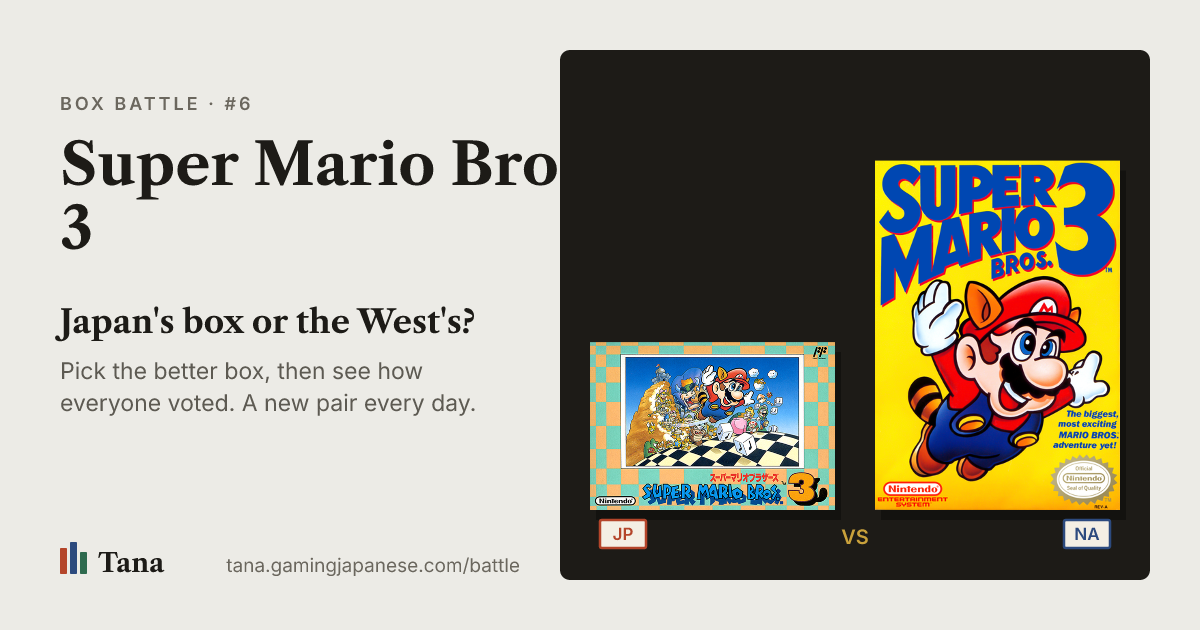
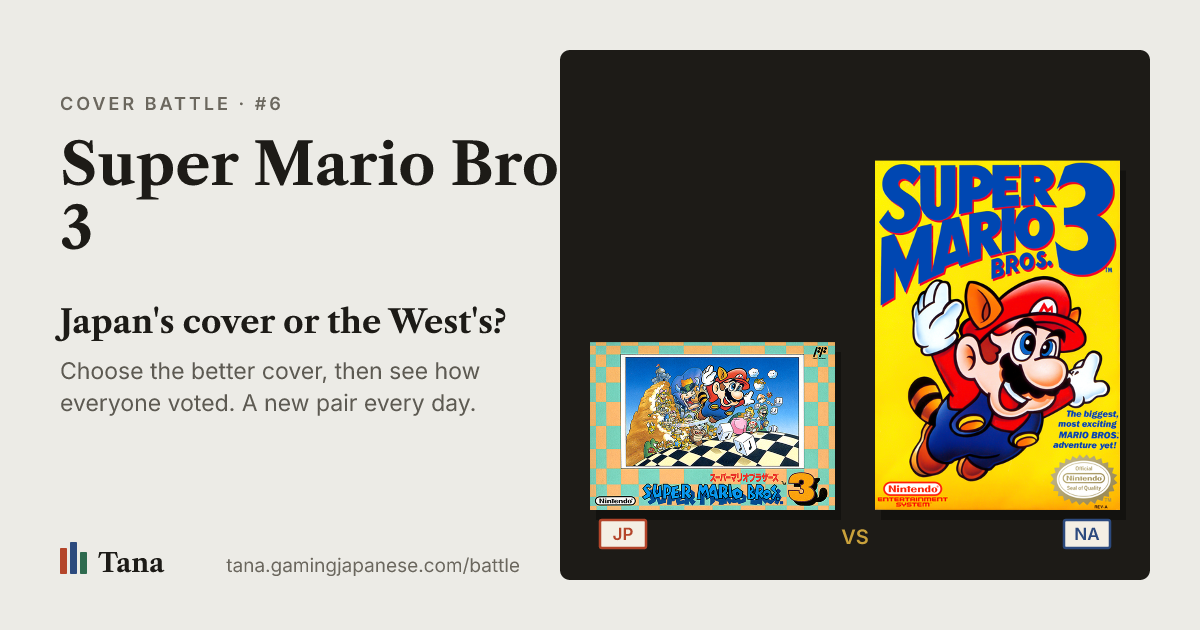
Rebuild game pages (2026-10-18)

Changed region(s): [[0.1542, 0.4825, 0.4317, 0.5429], [0.0308, 0.573, 0.4008, 0.6032], [0.0308, 0.1508, 0.2467, 0.181]]

diff --git a/help/glossary/index.html b/help/glossary/index.html
@@ -31,7 +31,7 @@
 <article class="help">
 <p class="crumb"><a href="https://tana.gamingjapanese.com/help/">Help</a>, Appendices</p>
 <h1>Glossary</h1>
-<ul><li>Game: the title itself, across all regions and platforms</li><li>Release: a game&#39;s version in one region on one platform</li><li>Edition: a specific product within a release (standard, reprint, limited, cover variant, etc.). This is what you add to your collection.</li><li>Copy: one physical copy you own of an edition</li><li>Main shelf: everything in your collection</li><li>Box: one of nine numbered lists of any games from the catalogue, owned or not, under Wants &amp; lists</li><li>Today&#39;s Box (今日の一箱): the daily game of guessing a game from its box, shown as a mosaic that sharpens with each guess</li><li>Plate: a brass plate under your shelf for stamping every Today&#39;s Box in a month</li><li>Census: the running count of every public My 9: most picked games, keystones, platforms and eras</li><li>Keystone: the game in the middle cubby of a My 9</li><li>My 9 (私を構成する9本): a 3 by 3 grid of the nine games that define you, kept in one of your boxes</li><li>Box art: the cover shown for a release, from scans, Wikipedia or members&#39; photos, always with the release&#39;s region patch</li><li>Region patch: the small JP, NA or EU label on a box, showing the region of the release</li><li>Smaller shelf: one of up to five shelves of games you pick from your collection, with its own name, order and style</li><li>Serial / product code: the code on the spine, disc or cartridge, i.e. SLPS-00700</li><li>JAN: the Japanese barcode number on the box</li><li>Obi: the paper spine card that comes with many Japanese games</li><li>CIB: complete in box</li><li>Loose: the cartridge or disc on its own</li><li>Reprint line: a budget re-release series, i.e. PlayStation the Best or Greatest Hits</li><li>Cover variant: a printing with different box art under the same serial</li><li>Country edition: a European version for one country, with its own serial</li><li>Japan only: never released in North America or Europe</li><li>Western only: never released in Japan</li><li>Physical in the West only: Japan only got a download, the West got a physical release</li><li>Verified: a copy with an approved photo of that copy</li><li>Wanted poster: a gap in the catalogue (no box art, no product code, no photo) that members can fill, with credit on the release</li><li>Box Battle: the daily vote between a game&#39;s Japanese box and its Western box</li><li>Hall of Boxes: the Box Battle winners that won most clearly</li><li>Shelf twin: a member whose shelf shares many exact copies with yours</li><li>Lone keeper: the only member on Tana with a particular edition</li><li>Circle: a group of members collecting one set of games together</li><li>The weekly letter: a short email from Nico, for members who ask for it, with a few lines from your own shelf</li></ul>
+<ul><li>Game: the title itself, across all regions and platforms</li><li>Release: a game&#39;s version in one region on one platform</li><li>Edition: a specific product within a release (standard, reprint, limited, cover variant, etc.). This is what you add to your collection.</li><li>Copy: one physical copy you own of an edition</li><li>Main shelf: everything in your collection</li><li>Box: one of nine numbered lists of any games from the catalogue, owned or not, under Wants &amp; lists</li><li>Today&#39;s Box (今日の一箱): the daily game of guessing a game from its box, shown as a mosaic that sharpens with each guess</li><li>Plate: a brass plate under your shelf for stamping every Today&#39;s Box in a month</li><li>Census: the running count of every public My 9: most picked games, keystones, platforms and eras</li><li>Keystone: the game in the middle cubby of a My 9</li><li>My 9 (私を構成する9本): a 3 by 3 grid of the nine games that define you, kept in one of your boxes</li><li>Box art: the cover shown for a release, from scans, Wikipedia or members&#39; photos, always with the release&#39;s region patch</li><li>Region patch: the small JP, NA or EU label on a box, showing the region of the release</li><li>Smaller shelf: one of up to five shelves of games you pick from your collection, with its own name, order and style</li><li>Serial / product code: the code on the spine, disc or cartridge, i.e. SLPS-00700</li><li>JAN: the Japanese barcode number on the box</li><li>Obi: the paper spine card that comes with many Japanese games</li><li>CIB: complete in box</li><li>Loose: the cartridge or disc on its own</li><li>Reprint line: a budget re-release series, i.e. PlayStation the Best or Greatest Hits</li><li>Cover variant: a printing with different box art under the same serial</li><li>Country edition: a European version for one country, with its own serial</li><li>Japan only: never released in North America or Europe</li><li>Western only: never released in Japan</li><li>Physical in the West only: Japan only got a download, the West got a physical release</li><li>Verified: a copy with an approved photo of that copy</li><li>Wanted poster: a gap in the catalogue (no box art, no product code, no photo) that members can fill, with credit on the release</li><li>Cover Battle: the daily vote between a game&#39;s Japanese cover and its Western cover (called Box Battle until October 2026)</li><li>Hall of Covers: the Cover Battle winners that won most clearly</li><li>Shelf twin: a member whose shelf shares many exact copies with yours</li><li>Lone keeper: the only member on Tana with a particular edition</li><li>Circle: a group of members collecting one set of games together</li><li>The weekly letter: a short email from Nico, for members who ask for it, with a few lines from your own shelf</li></ul>
 <nav class="help-nav" aria-label="More help">
   <a class="help-prev" href="https://tana.gamingjapanese.com/help/contact/"><span>Previous</span>Contact and feedback</a>
   <a class="help-next" href="https://tana.gamingjapanese.com/help/whats-new/"><span>Next</span>What&#39;s new</a>

diff --git a/help/box-battle/index.html b/help/box-battle/index.html
@@ -3,13 +3,13 @@
 <head>
 <meta charset="utf-8">
 <meta name="viewport" content="width=device-width, initial-scale=1">
-<title>Box Battle · Tana help</title>
-<meta name="description" content="Box Battle puts one game&#39;s Japanese box against its Western box, once a day. Pick the box you think is better, then see how everyone voted. Open it from th">
+<title>Cover Battle · Tana help</title>
+<meta name="description" content="Cover Battle puts one game&#39;s Japanese cover against its Western cover, once a day. Choose the cover you think is better, vote, then see how everyone voted.">
 <link rel="canonical" href="https://tana.gamingjapanese.com/help/box-battle/">
 <meta property="og:type" content="website">
 <meta property="og:site_name" content="Tana 棚">
-<meta property="og:title" content="Box Battle · Tana help">
-<meta property="og:description" content="Box Battle puts one game&#39;s Japanese box against its Western box, once a day. Pick the box you think is better, then see how everyone voted. Open it from th">
+<meta property="og:title" content="Cover Battle · Tana help">
+<meta property="og:description" content="Cover Battle puts one game&#39;s Japanese cover against its Western cover, once a day. Choose the cover you think is better, vote, then see how everyone voted.">
 <meta property="og:url" content="https://tana.gamingjapanese.com/help/box-battle/">
 <meta property="og:image" content="https://tana.gamingjapanese.com/static/og.png">
 <meta property="og:image:width" content="1200">
@@ -30,14 +30,16 @@
 <main class="page">
 <article class="help">
 <p class="crumb"><a href="https://tana.gamingjapanese.com/help/">Help</a>, Sharing and community</p>
-<h1>Box Battle</h1>
-<p>Box Battle puts one game&#39;s Japanese box against its Western box, once a day. Pick the box you think is better, then see how everyone voted. Open it from the home page or from Community, then Box Battle. You don&#39;t need an account to vote.</p>
+<h1>Cover Battle</h1>
+<p>Cover Battle puts one game&#39;s Japanese cover against its Western cover, once a day. Choose the cover you think is better, vote, then see how everyone voted. Open it from the home page or from Community, then Cover Battle. You don&#39;t need an account to vote. (Until October 2026 it was called Box Battle; old links still work.)</p>
 <h3>How it works</h3>
-<p>Each day at midnight Japan time, a new battle opens: the same game, two boxes, side by side, with what&#39;s printed on each (title, publisher, year and product code). Tap the box you prefer. Your vote is final, and only after you vote do you see the split.</p>
+<p>Each day at midnight Japan time, a new battle opens: the same game, two covers, side by side, with what&#39;s printed on each (title, publisher, year and product code).</p>
+<ul><li>**Look closer.** The magnifier on each cover opens it large. Switch between the two covers there with the tabs at the top, or the arrow keys.</li><li>**Choose, then vote.** Tap a cover to choose it, then press **Vote for this cover**. Until you press Vote you can change your mind and choose the other one. You can also choose a cover from the large view.</li></ul>
+<p>Your vote is final, and only after you vote do you see the split.</p>
 <p>Tana only draws pairs whose art really differs. Every candidate pair is compared picture by picture first, so you&#39;ll never be asked to choose between two copies of the same artwork.</p>
 <h3>The score</h3>
-<p>When a day closes, the box with more votes wins it for its side. The wins add up:</p>
-<ul><li>**All-time score.** Japan against the West, over every battle so far.</li><li>**The monthly cup.** Each month has a theme, such as Famicom vs NES in October and Super Famicom vs SNES in November, and the battles that month come from it.</li><li>**The Hall of Boxes.** The boxes that won most clearly, once a battle has three or more votes.</li></ul>
+<p>When a day closes, the cover with more votes wins it for its side. The wins add up:</p>
+<ul><li>**All-time score.** Japan against the West, over every battle so far.</li><li>**The monthly cup.** Each month has a theme, such as Famicom vs NES in October and Super Famicom vs SNES in November, and the battles that month come from it.</li><li>**The Hall of Covers.** The covers that won most clearly, once a battle has three or more votes.</li></ul>
 <h3>Streaks and sharing</h3>
 <p>Signed-in members build a streak by voting on consecutive days. After you vote, you can post your pick to X or copy it, without giving away anything you shouldn&#39;t.</p>
 <h3>Without an account</h3>

diff --git a/help/index.html b/help/index.html
@@ -43,7 +43,7 @@
 <h3>5. Photos</h3>
 <ul><li><a href="https://tana.gamingjapanese.com/help/adding-photos/">5.1 Adding photos of your copies</a></li><li><a href="https://tana.gamingjapanese.com/help/photo-review/">5.2 How photos are reviewed</a></li><li><a href="https://tana.gamingjapanese.com/help/hide-photos/">5.3 Hiding photos on your public shelf</a></li></ul>
 <h3>6. Sharing and community</h3>
-<ul><li><a href="https://tana.gamingjapanese.com/help/public-shelf/">6.1 Your public shelf and privacy</a></li><li><a href="https://tana.gamingjapanese.com/help/sharing/">6.2 Sharing your shelf</a></li><li><a href="https://tana.gamingjapanese.com/help/following/">6.3 Following collectors</a></li><li><a href="https://tana.gamingjapanese.com/help/owners-and-wanters/">6.4 Who owns and wants each edition</a></li><li><a href="https://tana.gamingjapanese.com/help/leaderboard/">6.5 The leaderboard and verified games</a></li><li><a href="https://tana.gamingjapanese.com/help/contribution-orb/">6.6 The contribution orb</a></li><li><a href="https://tana.gamingjapanese.com/help/comments/">6.7 Comments and discussion</a></li><li><a href="https://tana.gamingjapanese.com/help/todays-box/">6.8 Today&#39;s Box</a></li><li><a href="https://tana.gamingjapanese.com/help/wanted-board/">6.9 The Wanted board</a></li><li><a href="https://tana.gamingjapanese.com/help/box-battle/">6.10 Box Battle</a></li><li><a href="https://tana.gamingjapanese.com/help/shelf-twins/">6.11 Shelf twins and lone keepers</a></li><li><a href="https://tana.gamingjapanese.com/help/circles/">6.12 Circles</a></li><li><a href="https://tana.gamingjapanese.com/help/weekly-letter/">6.13 The weekly letter</a></li></ul>
+<ul><li><a href="https://tana.gamingjapanese.com/help/public-shelf/">6.1 Your public shelf and privacy</a></li><li><a href="https://tana.gamingjapanese.com/help/sharing/">6.2 Sharing your shelf</a></li><li><a href="https://tana.gamingjapanese.com/help/following/">6.3 Following collectors</a></li><li><a href="https://tana.gamingjapanese.com/help/owners-and-wanters/">6.4 Who owns and wants each edition</a></li><li><a href="https://tana.gamingjapanese.com/help/leaderboard/">6.5 The leaderboard and verified games</a></li><li><a href="https://tana.gamingjapanese.com/help/contribution-orb/">6.6 The contribution orb</a></li><li><a href="https://tana.gamingjapanese.com/help/comments/">6.7 Comments and discussion</a></li><li><a href="https://tana.gamingjapanese.com/help/todays-box/">6.8 Today&#39;s Box</a></li><li><a href="https://tana.gamingjapanese.com/help/wanted-board/">6.9 The Wanted board</a></li><li><a href="https://tana.gamingjapanese.com/help/box-battle/">6.10 Cover Battle</a></li><li><a href="https://tana.gamingjapanese.com/help/shelf-twins/">6.11 Shelf twins and lone keepers</a></li><li><a href="https://tana.gamingjapanese.com/help/circles/">6.12 Circles</a></li><li><a href="https://tana.gamingjapanese.com/help/weekly-letter/">6.13 The weekly letter</a></li></ul>
 <h3>7. Improving the catalogue</h3>
 <ul><li><a href="https://tana.gamingjapanese.com/help/corrections/">7.1 Suggesting a correction</a></li><li><a href="https://tana.gamingjapanese.com/help/adding-releases-editions/">7.2 Adding a release or an edition</a></li><li><a href="https://tana.gamingjapanese.com/help/regional-differences/">7.3 Documenting regional differences</a></li><li><a href="https://tana.gamingjapanese.com/help/review-process/">7.4 How contributions are reviewed</a></li></ul>
 <h3>8. About the data</h3>

diff --git a/help/finding-your-way/index.html b/help/finding-your-way/index.html
@@ -32,7 +32,7 @@
 <p class="crumb"><a href="https://tana.gamingjapanese.com/help/">Help</a>, Getting started</p>
 <h1>Finding your way around</h1>
 <p>On a phone, you will see the search, collection, wants, community, and account icons at the bottom of the screen. On a computer or a wide tablet they sit in the bar at the top instead, next to the Tana logo, and your account button is at the top right.</p>
-<ul><li>Search brings you to the search function to let you find what is across the Tana database.</li><li>Collection displays your own collection of games you can log and grow on Tana.</li><li>Wants &amp; lists (Wants on a phone) holds your wantlist, the games you&#39;re looking for, and nine boxes you can fill with any games for any reason. Tap Want it on a game and it shows up on the wantlist; tap Add to a box to put it in a box.</li><li>Community tab opens an overview with today&#39;s two daily games, Today&#39;s Box and Box Battle, then the Wanted board and Circles. The leaderboard, Shelf twins, the people you follow and wants matches are under More.</li><li>Account is where you can manage your bio, display name, dark/light setting, etc.</li></ul>
+<ul><li>Search brings you to the search function to let you find what is across the Tana database.</li><li>Collection displays your own collection of games you can log and grow on Tana.</li><li>Wants &amp; lists (Wants on a phone) holds your wantlist, the games you&#39;re looking for, and nine boxes you can fill with any games for any reason. Tap Want it on a game and it shows up on the wantlist; tap Add to a box to put it in a box.</li><li>Community tab opens an overview with today&#39;s two daily games, Today&#39;s Box and Cover Battle, then the Wanted board and Circles. The leaderboard, Shelf twins, the people you follow and wants matches are under More.</li><li>Account is where you can manage your bio, display name, dark/light setting, etc.</li></ul>
 <p>When you&#39;re signed in, the home page opens with your own shelf: the boxes you added most recently, how many copies you have, and four shortcuts (scan a barcode, tick off a platform, import a list, and your wants and lists). If your shelf is still empty, you&#39;ll see every console instead, so you can pick one and start ticking.</p>
 <p>Below that is the search box, and then Browse by platform, a row of spines for every platform on Tana with the number of games on each. Tap one to see its whole library.</p>
 <p>When the search box is empty, the home page shows the games most recently added to Tana, newest first. Use the platform menu or filters if you only want to see some of them.</p>

diff --git a/help/whats-new/index.html b/help/whats-new/index.html
@@ -4,12 +4,12 @@
 <meta charset="utf-8">
 <meta name="viewport" content="width=device-width, initial-scale=1">
 <title>What&#39;s new · Tana help</title>
-<meta name="description" content="2026 10 15: Faster search, and Today&#39;s Box understands English titles Search across Tana is much faster: a search that took a second or two now comes back ">
+<meta name="description" content="2026 10 19: Box Battle is now Cover Battle, with a closer look before you vote Box Battle is now called Cover Battle , so it&#39;s easier to tell apart from To">
 <link rel="canonical" href="https://tana.gamingjapanese.com/help/whats-new/">
 <meta property="og:type" content="website">
 <meta property="og:site_name" content="Tana 棚">
 <meta property="og:title" content="What&#39;s new · Tana help">
-<meta property="og:description" content="2026 10 15: Faster search, and Today&#39;s Box understands English titles Search across Tana is much faster: a search that took a second or two now comes back ">
+<meta property="og:description" content="2026 10 19: Box Battle is now Cover Battle, with a closer look before you vote Box Battle is now called Cover Battle , so it&#39;s easier to tell apart from To">
 <meta property="og:url" content="https://tana.gamingjapanese.com/help/whats-new/">
 <meta property="og:image" content="https://tana.gamingjapanese.com/static/og.png">
 <meta property="og:image:width" content="1200">
@@ -31,6 +31,8 @@
 <article class="help">
 <p class="crumb"><a href="https://tana.gamingjapanese.com/help/">Help</a>, Appendices</p>
 <h1>What&#39;s new</h1>
+<h3>2026-10-19: Box Battle is now Cover Battle, with a closer look before you vote</h3>
+<p>Box Battle is now called **Cover Battle**, so it&#39;s easier to tell apart from Today&#39;s Box. Tapping a cover no longer votes straight away: tap to choose it, then press **Vote for this cover**. The magnifier on each cover opens it large, with a switch to the other one. See <a href="https://tana.gamingjapanese.com/help/box-battle/">Cover Battle</a>.</p>
 <h3>2026-10-15: Faster search, and Today&#39;s Box understands English titles</h3>
 <p>Search across Tana is much faster: a search that took a second or two now comes back almost at once.</p>
 <p>In Today&#39;s Box, the guess list now finds games by their Western name as well as the Japanese and romanised titles, shows each game once with all its platforms, and counts any platform&#39;s copy as the right game. Typing numbers for Roman numerals works, and small typos still find the game. See <a href="https://tana.gamingjapanese.com/help/todays-box/">Today&#39;s Box</a>.</p>

diff --git a/battle/index.html b/battle/index.html
@@ -3,13 +3,13 @@
 <head>
 <meta charset="utf-8">
 <meta name="viewport" content="width=device-width, initial-scale=1">
-<title>Box Battle #6: Super Mario Bros. 3, Japan&#39;s box or the West&#39;s? | Tana</title>
-<meta name="description" content="One game a day, two boxes: the Japanese one and the Western one. Pick the better box, then see how everyone voted. Free, no account needed.">
+<title>Cover Battle #6: Super Mario Bros. 3, Japan&#39;s cover or the West&#39;s? | Tana</title>
+<meta name="description" content="One game a day, two covers: the Japanese one and the Western one. Choose the better cover, then see how everyone voted. Free, no account needed.">
 <link rel="canonical" href="https://tana.gamingjapanese.com/battle/">
 <meta property="og:type" content="website">
 <meta property="og:site_name" content="Tana 棚">
-<meta property="og:title" content="Box Battle #6: Super Mario Bros. 3, Japan&#39;s box or the West&#39;s? | Tana">
-<meta property="og:description" content="One game a day, two boxes: the Japanese one and the Western one. Pick the better box, then see how everyone voted. Free, no account needed.">
+<meta property="og:title" content="Cover Battle #6: Super Mario Bros. 3, Japan&#39;s cover or the West&#39;s? | Tana">
+<meta property="og:description" content="One game a day, two covers: the Japanese one and the Western one. Choose the better cover, then see how everyone voted. Free, no account needed.">
 <meta property="og:url" content="https://tana.gamingjapanese.com/battle/">
 <meta property="og:image" content="https://tana.gamingjapanese.com/battle/card.png">
 <meta property="og:image:width" content="1200">
@@ -29,8 +29,8 @@
 </header>
 <main class="page">
 <script>(function(){var s=location.search,r=document.referrer;if(r&&r.indexOf(location.host)<0)s+=(s?'&':'?')+'r='+encodeURIComponent(r);location.replace("/#/battle"+s)})()</script>
-<section class="profile"><p class="crumb">A daily vote on Tana</p><h1>Box Battle</h1>
-<p class="lede">One game a day, two boxes: the Japanese one and the Western one. Pick the better box, then see how everyone voted. Free, no account needed.</p>
+<section class="profile"><p class="crumb">A daily vote on Tana</p><h1>Cover Battle</h1>
+<p class="lede">One game a day, two covers: the Japanese one and the Western one. Choose the better cover, then see how everyone voted. Free, no account needed.</p>
 <p class="actions"><a class="btn primary" href="https://tana.gamingjapanese.com/#/battle">Vote in today's battle</a></p></section>
 </main>
 <script src="https://tana.gamingjapanese.com/t.js" defer></script>

diff --git a/help/weekly-letter/index.html b/help/weekly-letter/index.html
@@ -33,7 +33,7 @@
 <h1>The weekly letter</h1>
 <p>The weekly letter is a short email from Nico, who runs Tana. It&#39;s written by hand each week, about what came in, what&#39;s new on Tana and anything worth talking about.</p>
 <p>Under the letter there are two short lists made from Tana itself:</p>
-<ul><li>**This week on Tana.** New members, the week&#39;s Box Battle results, the hardest Today&#39;s Box, Wanted posters filled, the circles that grew.</li><li>**For you.** Lines from your own shelf only: Wanted posters for copies you own, what your shelf twin added, how your Box Battle votes went, games on your wantlist that other members have.</li></ul>
+<ul><li>**This week on Tana.** New members, the week&#39;s Cover Battle results, the hardest Today&#39;s Box, Wanted posters filled, the circles that grew.</li><li>**For you.** Lines from your own shelf only: Wanted posters for copies you own, what your shelf twin added, how your Cover Battle votes went, games on your wantlist that other members have.</li></ul>
 <h3>Getting it, or not</h3>
 <p>Nobody gets the letter unless they say yes. You can say yes when you sign up, from the card on your collection page, from the one-line question at the top of the page (it stays until you answer, and **Later** hides it until your next visit), or in Account under The weekly letter. Every letter has an unsubscribe link that works in one click, and you can switch it off in Account any time.</p>
 <p>Replies go to Nico. The letter is sent through Resend, an email delivery service; see <a href="https://tana.gamingjapanese.com/help/privacy-and-data/">Privacy and your data</a>.</p>

diff --git a/help/shelf-twins/index.html b/help/shelf-twins/index.html
@@ -42,7 +42,7 @@
 <h3>On your shelf</h3>
 <p>Your shelf, and every public shelf, shows the closest twin and the number of lone-keeper copies underneath it. Tap either one for the full list.</p>
 <nav class="help-nav" aria-label="More help">
-  <a class="help-prev" href="https://tana.gamingjapanese.com/help/box-battle/"><span>Previous</span>Box Battle</a>
+  <a class="help-prev" href="https://tana.gamingjapanese.com/help/box-battle/"><span>Previous</span>Cover Battle</a>
   <a class="help-next" href="https://tana.gamingjapanese.com/help/circles/"><span>Next</span>Circles</a>
 </nav>
 <p class="help-all"><a href="https://tana.gamingjapanese.com/help/">All help topics</a> · <a href="https://tana.gamingjapanese.com/">Open Tana</a></p>

diff --git a/help/wanted-board/index.html b/help/wanted-board/index.html
@@ -47,7 +47,7 @@
 <p>A release with an open poster shows a small Wanted note on its card, with a button to fill it if you own that copy.</p>
 <nav class="help-nav" aria-label="More help">
   <a class="help-prev" href="https://tana.gamingjapanese.com/help/todays-box/"><span>Previous</span>Today&#39;s Box</a>
-  <a class="help-next" href="https://tana.gamingjapanese.com/help/box-battle/"><span>Next</span>Box Battle</a>
+  <a class="help-next" href="https://tana.gamingjapanese.com/help/box-battle/"><span>Next</span>Cover Battle</a>
 </nav>
 <p class="help-all"><a href="https://tana.gamingjapanese.com/help/">All help topics</a> · <a href="https://tana.gamingjapanese.com/">Open Tana</a></p>
 </article>
